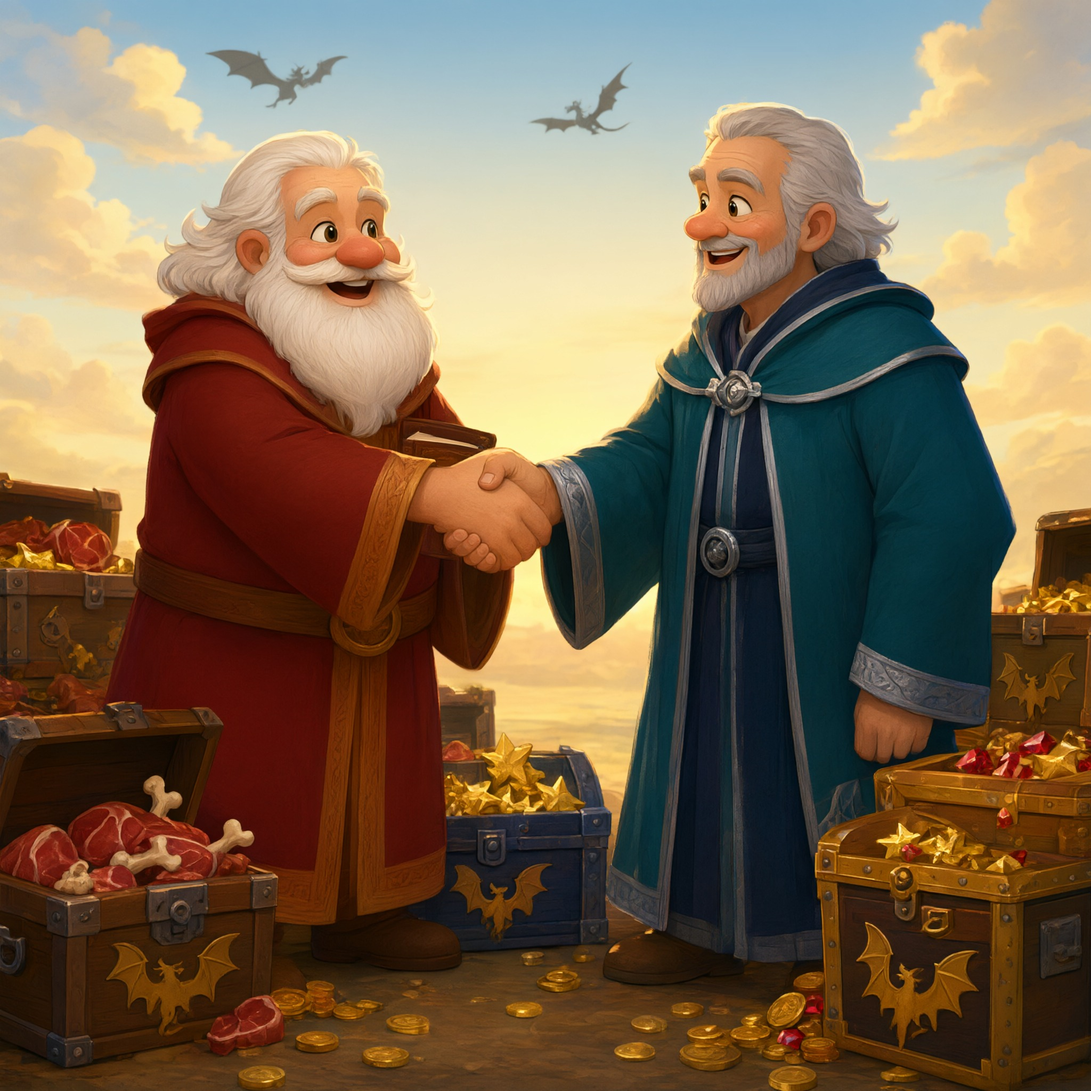
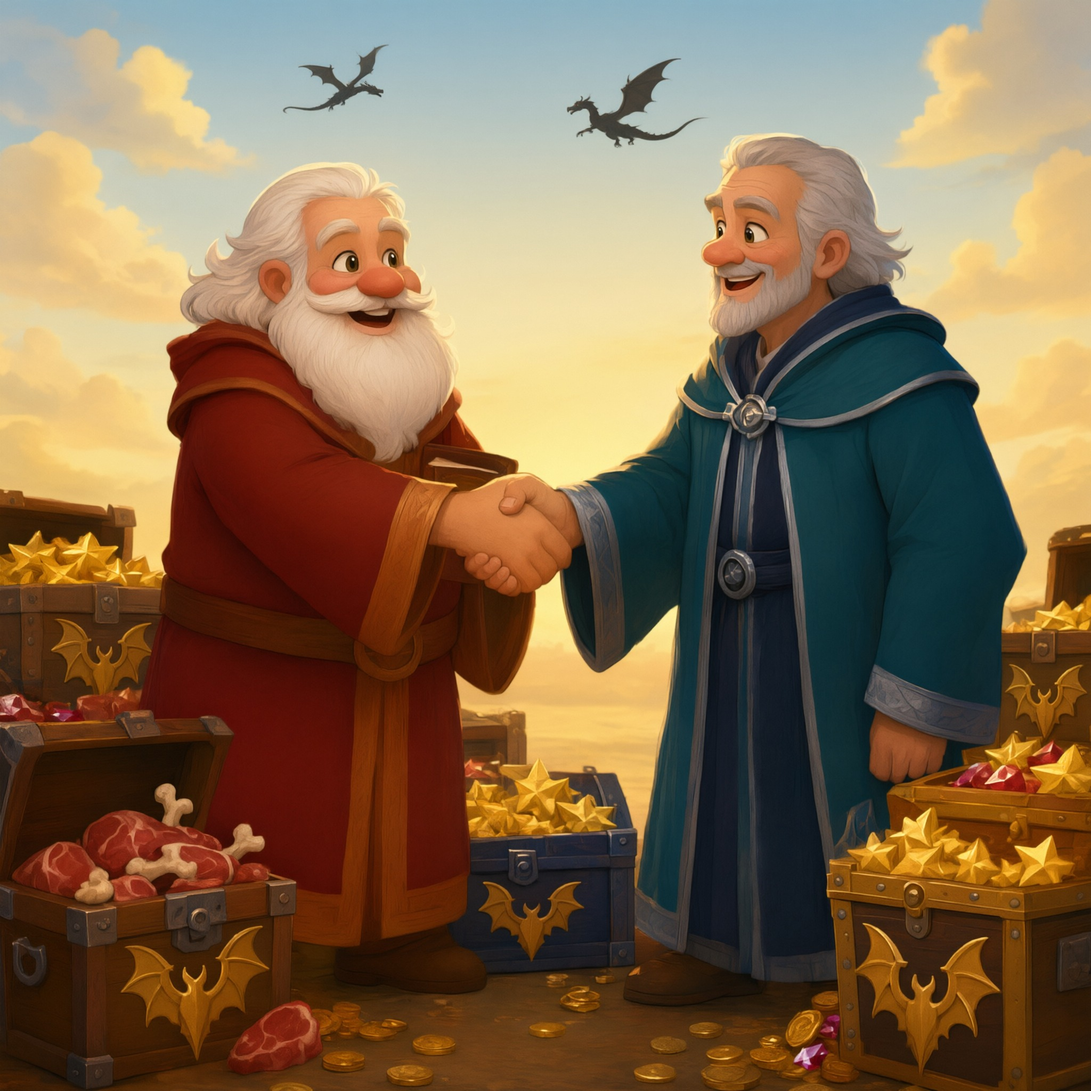
Send the dragons back to the horizon
Third pass on the invite image, and the last. The second pass fixed the
chest contents and the emblem but pulled the dragons into the
foreground, which was the one thing that had been right. This pass asked
for nothing except smaller, more distant dragons, and everything else
survived.

Recorded in the folder README, because it cost three rounds to learn:
asking for three corrections at once breaks the thing you did not ask
about. One subject per pass.

diff --git a/assets/_sosyal/README.md b/assets/_sosyal/README.md
@@ -25,6 +25,16 @@ gömülü yazı dört dile çevrilemez. Başlık/çağrı metni paylaşırken
 gönderinin kendisine yazılmalı, ya da üstüne ayrı bir katman olarak
 eklenmeli.
 
-`davet-arkadas` görselinde üç ejderha silüeti çıkmıştı, üçüncüsü sağ
-üstten koddan silindi (gökyüzü düz bir geçiş olduğu için yatay
-enterpolasyonla kapandı). İstenen sayı ikiydi.
+`davet-arkadas` üç turda oturdu, her turda bir öncekini **referans
+görsel** olarak verip yalnızca düzeltilecek şeyi tarif ederek:
+
+1. İlk üretim. Üç ejderha silüeti çıktı; üçüncüsü koddan silindi
+   (gökyüzü düz bir geçiş, yatay enterpolasyonla iz bırakmadan kapandı).
+2. Sandıklardaki yıldızlar yarım/bozuk geliyordu ve amblem bizimkine
+   benzemiyordu. Mevcut görsel + `assets/packs` künyesi birlikte referans
+   verilince ikisi de düzeldi — ama ejderhalar öne gelip büyüdü.
+3. Yalnızca ejderha boyutuna odaklanan son tur. Ejderhalar ufka döndü,
+   geri kalan her şey korundu.
+
+**Ders:** tek seferde üç şeyi birden düzelttirmek, düzeltilmesi
+istenmeyen şeyi bozuyor. Her tur tek bir konuya odaklanmalı.
